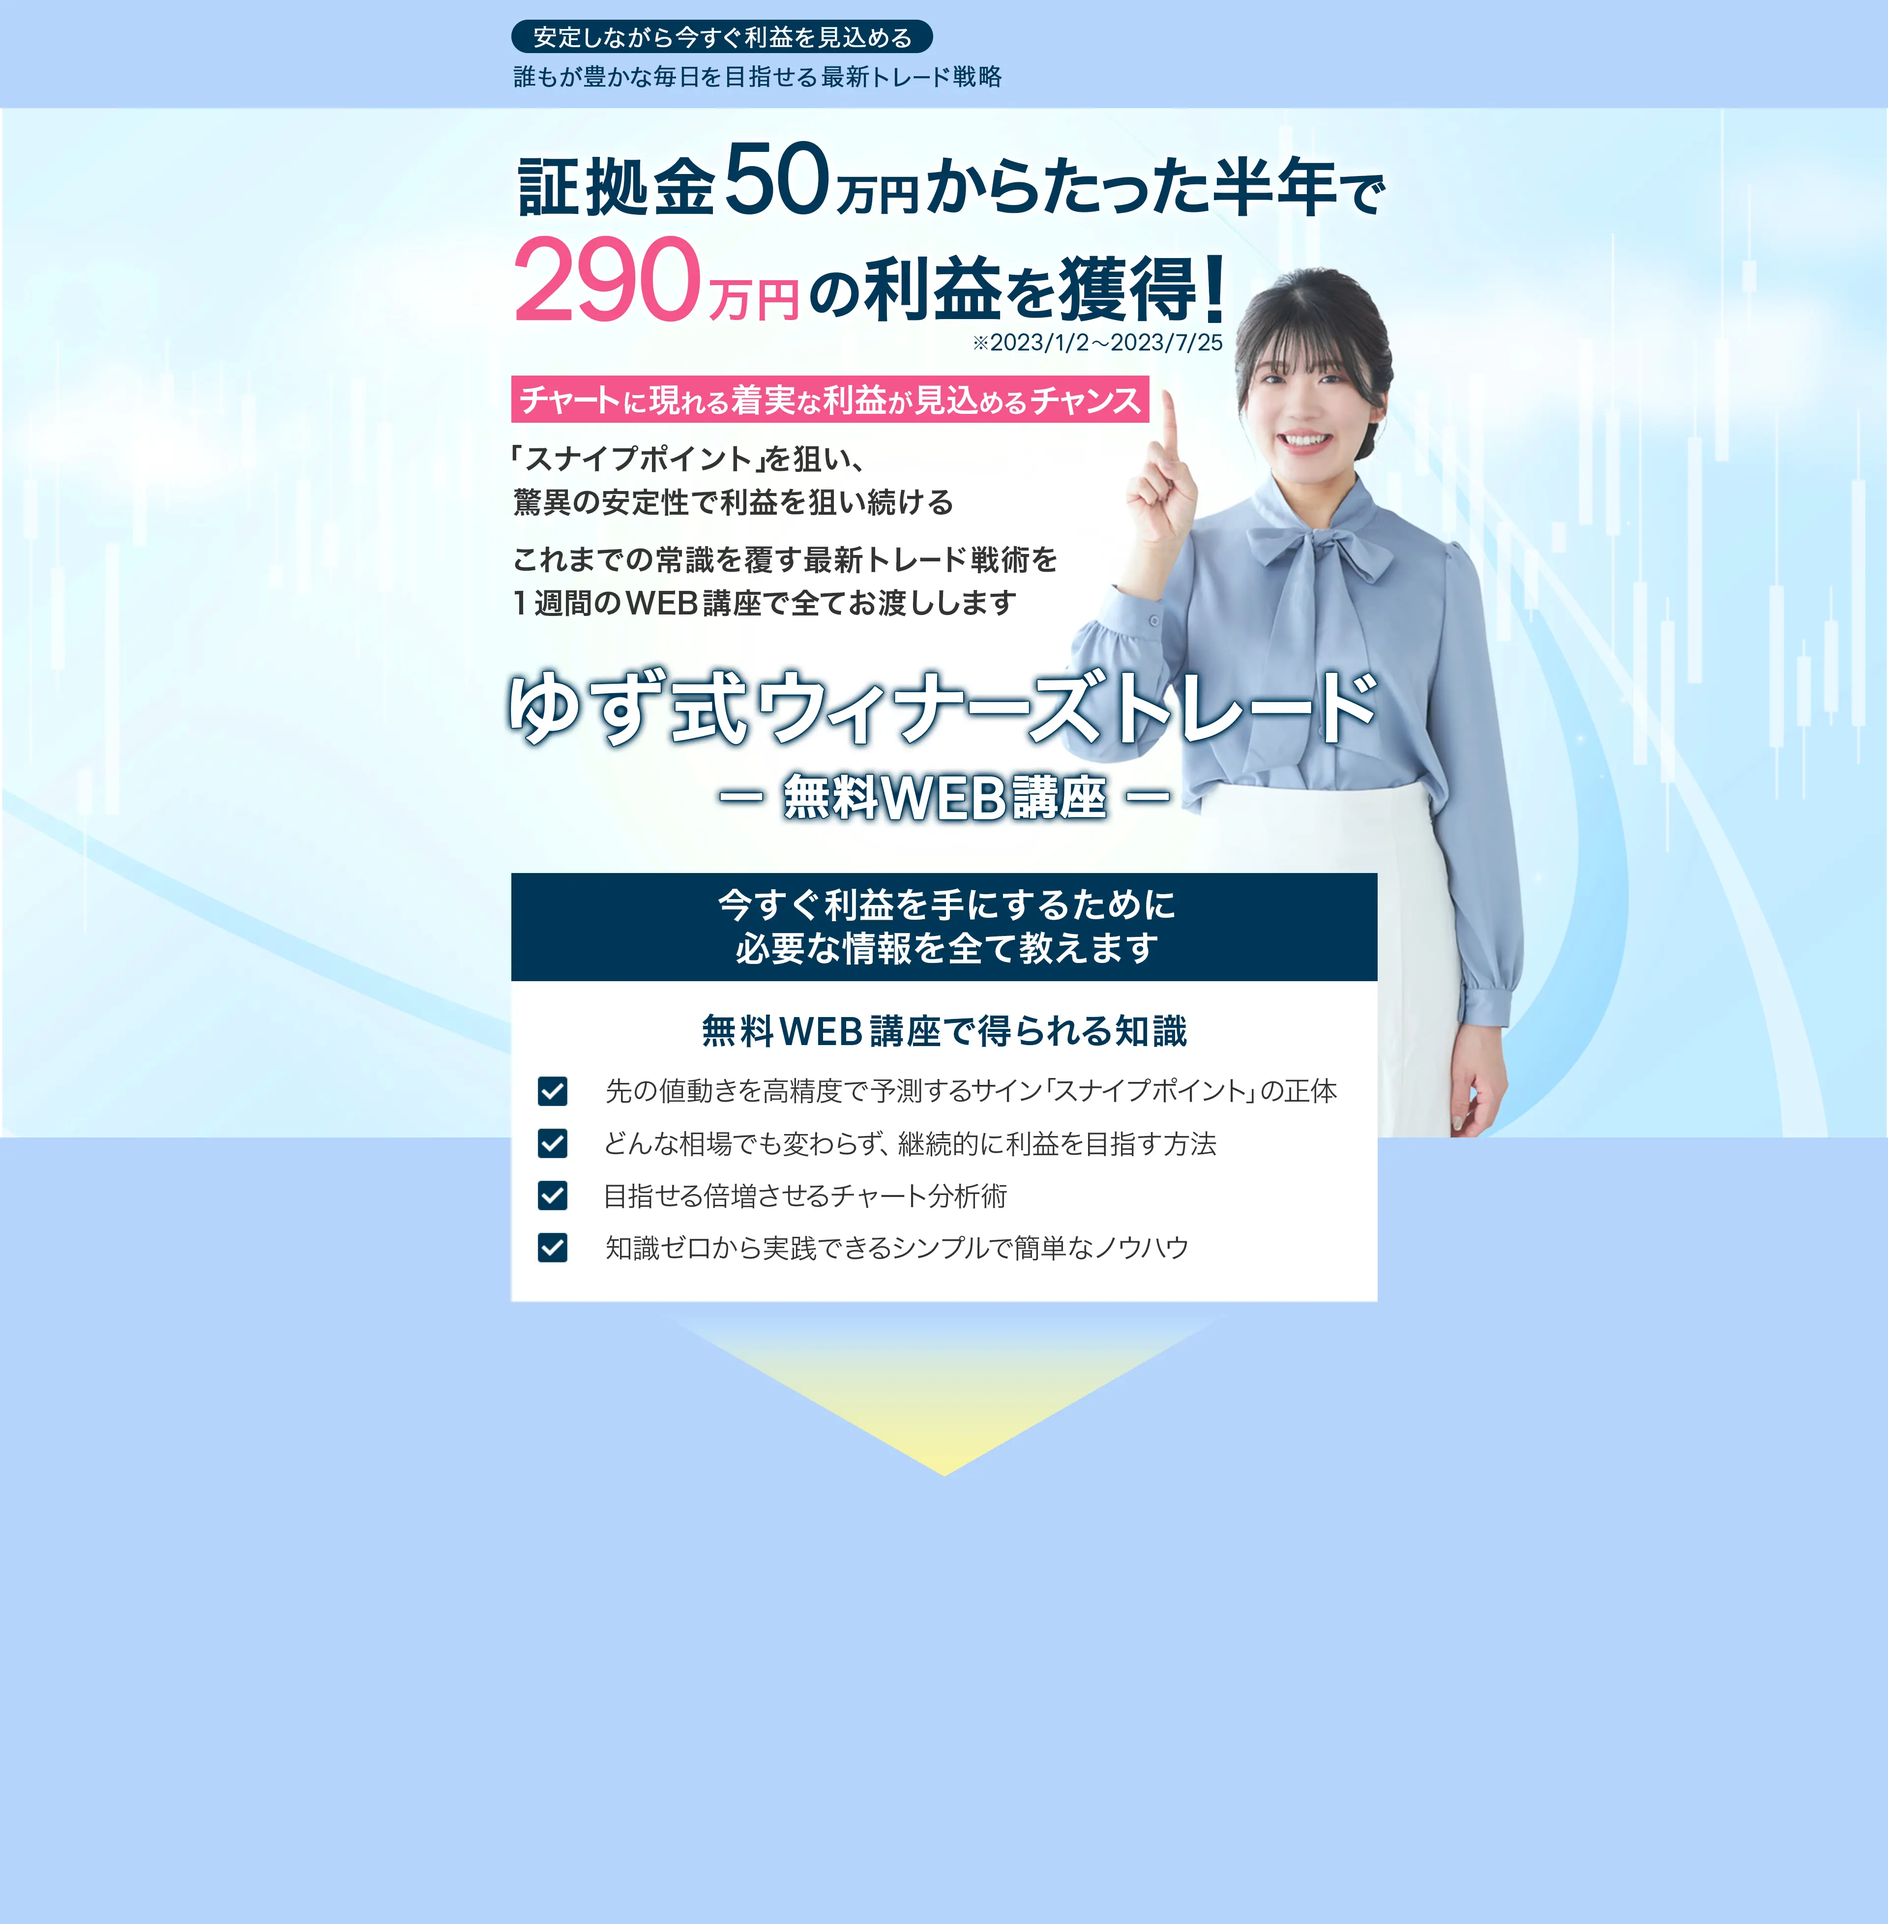
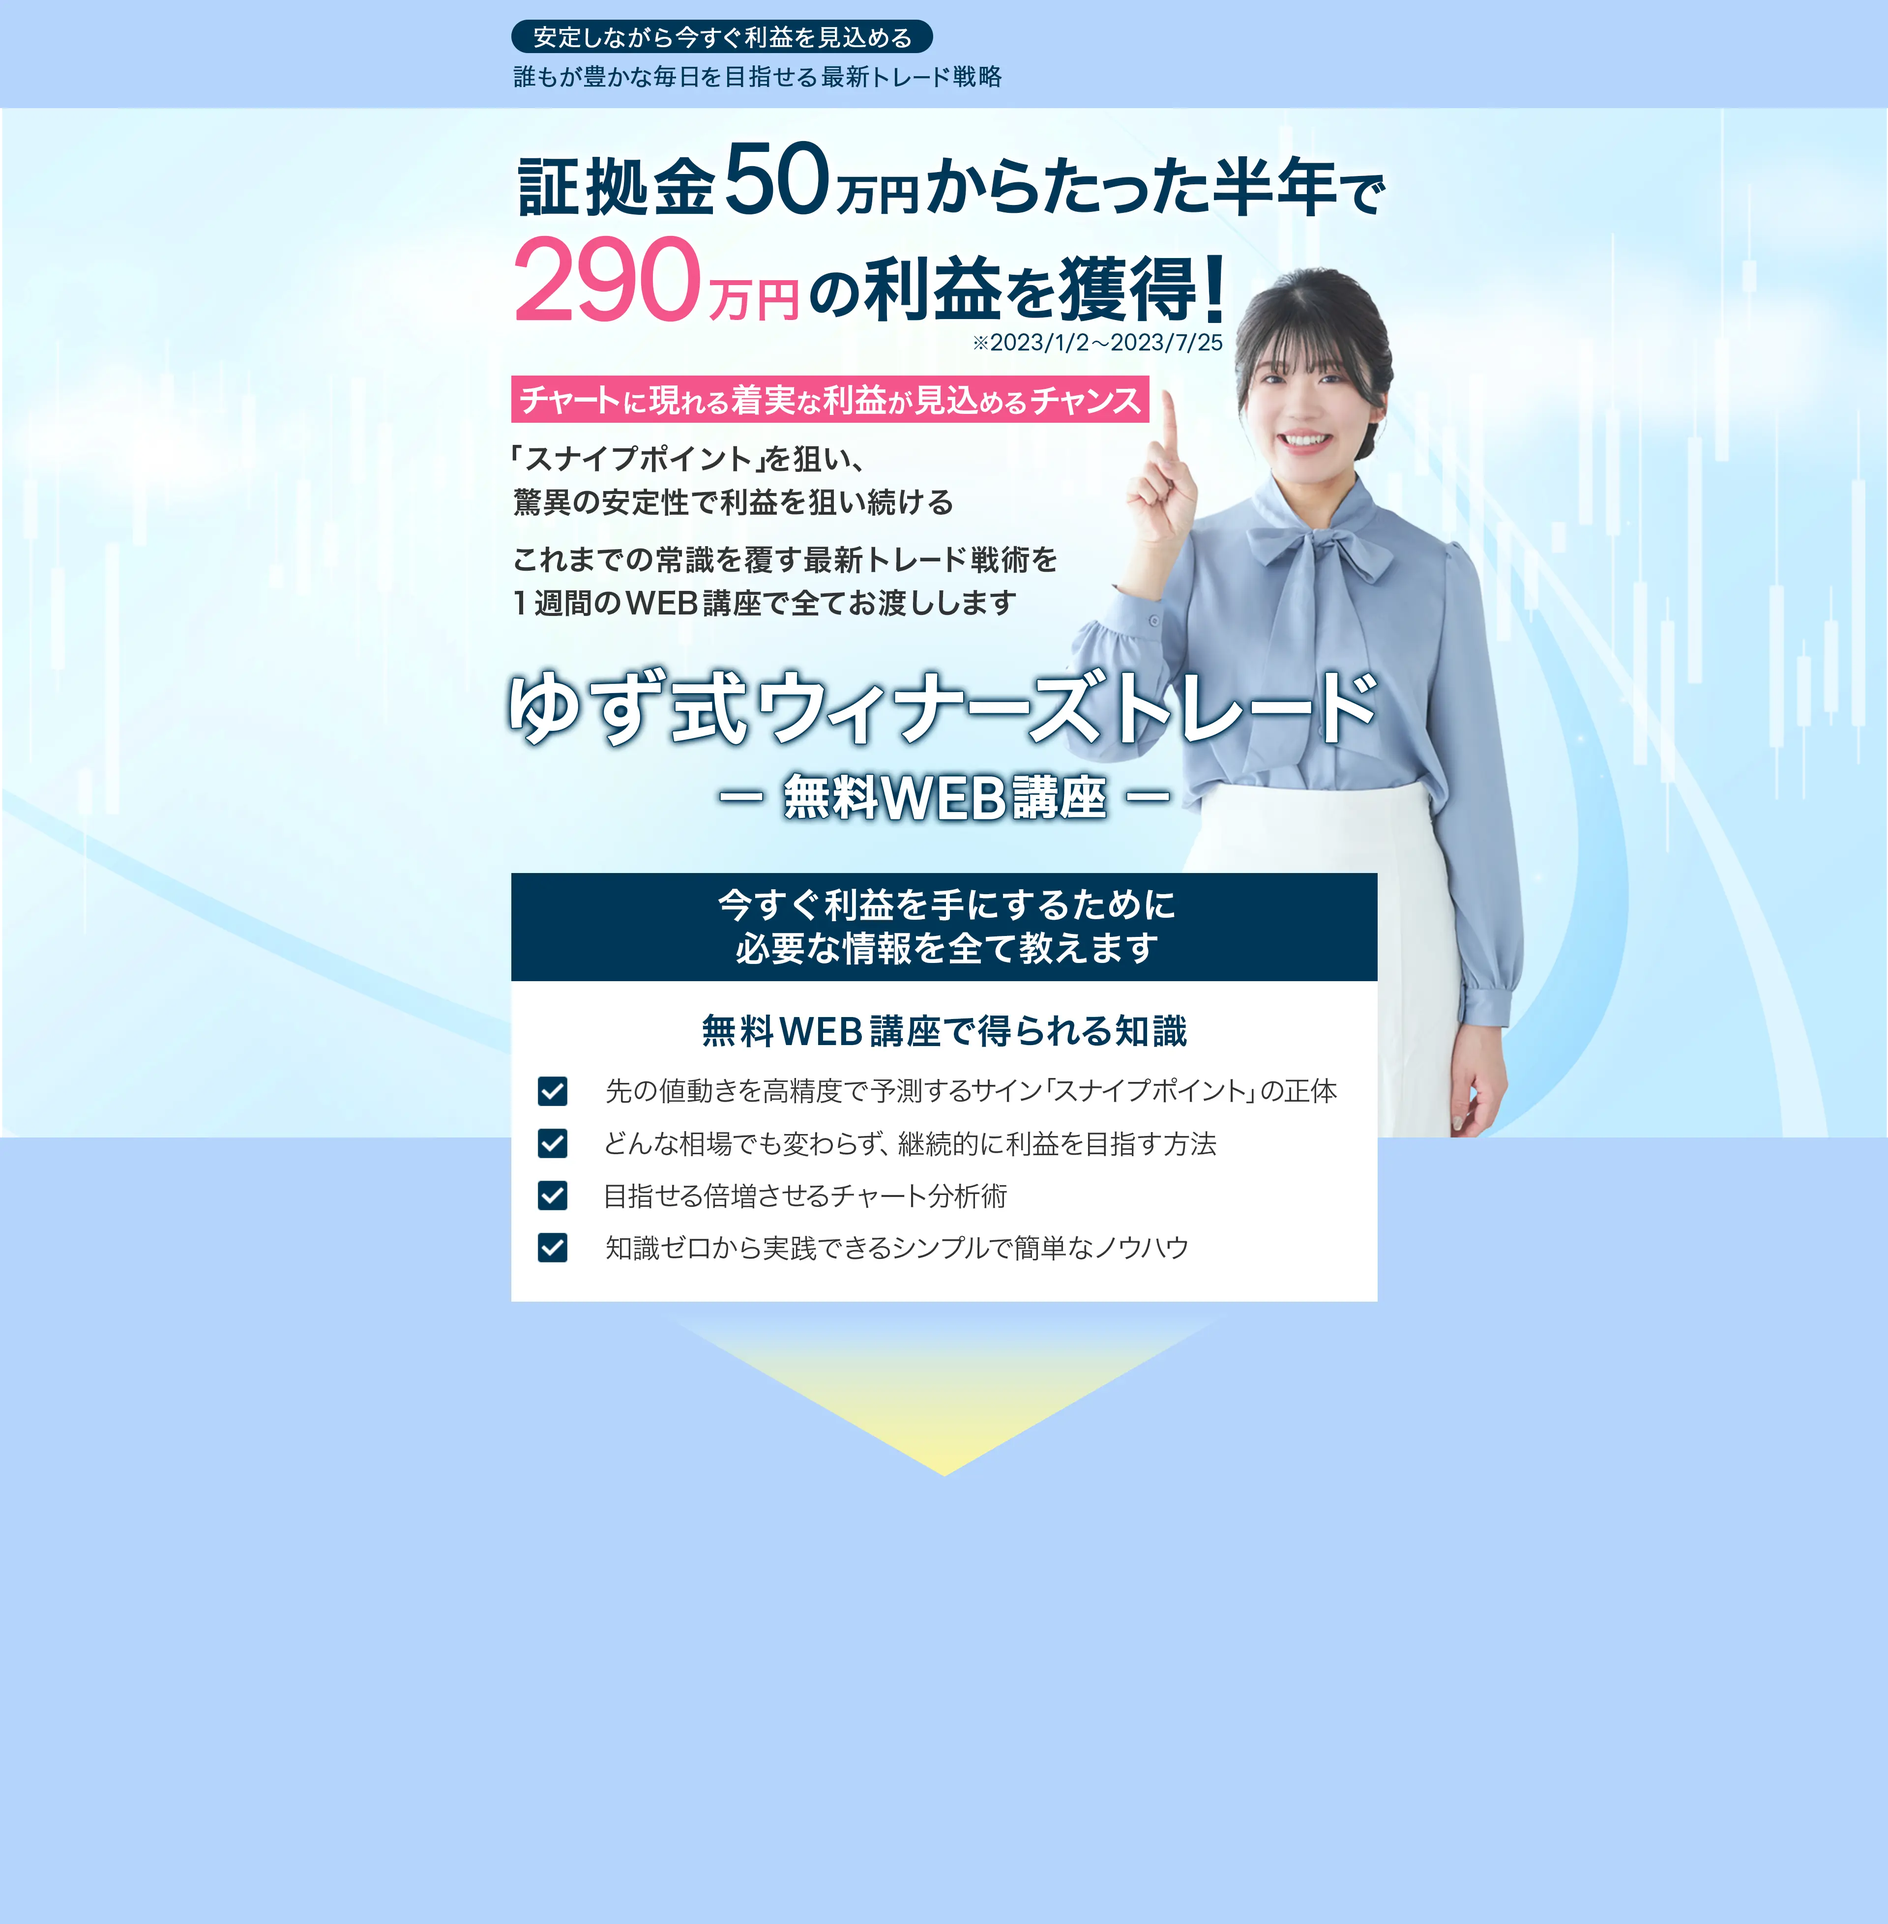
FV背景変更

Changed region(s): [[0.3438, 0.3117, 0.6562, 0.4676]]

diff --git a/index.html b/index.html
@@ -20,6 +20,8 @@
     <link rel="apple-touch-icon" href="images/favicon.ico" sizes="180x180">
     <link rel="shortcut icon" type="image/x-icon" href="images/favicon.ico">
     <link rel="icon" href="images/favicon.ico" sizes="any">
+    <!-- 背景画像のプリロード -->
+    <link rel="preload" href="images/pc-head-bck@2x.webp" as="image">
     <!-- CSS -->
     <link rel="stylesheet" href="https://cdn.jsdelivr.net/npm/destyle.css@1.0.15/destyle.css">
     <link rel="stylesheet" type="text/css" href="./css/style.css">
@@ -82,7 +84,7 @@
       <!-- 正確無比な値動き予測で安定利益を狙う -->
       <section class="section-03">
         <div class="w960">
-          <img class="section03-title_img" src="images/pc-sc03-title@2x.webp" alt="" width="883" height="166">
+          <img class="section03-title_img" src="images/pc-sc03-title@2x.webp" alt="" width="883" height="166" loading="lazy" decoding="async">
           <div class="box-a">
             <div class="pc-flex">
               <div class="text-area">ゆず式ウィナーズトレードとは、<br class="sp-none"> 誰もが「豊かで安心できる毎日を過ごせる」をコンセプトに、<br
@@ -119,7 +121,7 @@
       <section class="section-04">
         <div class="w960">
           <!-- <h2>負け続きだったトレーダーでも<br>始めてすぐ<span class="fs-40px">に</span>大きな成功<span class="fs-40px">を</span>目指せます</h2> -->
-          <img class="section04-title_img" src="images/pc-sc04-title@2x.webp" alt="" width="883" height="166">
+          <img class="section04-title_img" src="images/pc-sc04-title@2x.webp" alt="" width="883" height="166" loading="lazy" decoding="async">
           <div class="box-a">
             <div class="pc-flex">
               <div class="text-area">ゆず式ウィナーズトレードは、<br class="sp-none">トレード未経験の初心者でも即座に実践できるよう、<br
@@ -137,13 +139,13 @@
               </picture>
             </div>
             <!-- <h3>ゆず式ウィナーズトレードにチャレンジした<br>6名のトレーダーが即座に大成功！</h3> -->
-            <img class="section04-title2_img" src="images/pc-sc04-title2@2x.webp" alt="" width="721" height="99">
+            <img class="section04-title2_img" src="images/pc-sc04-title2@2x.webp" alt="" width="721" height="99" loading="lazy" decoding="async">
             <!-- <img class="sc04-pic" src="images/pc-sc04-pic2@2x.webp" alt="" width="883" height="478" loading="lazy"              decoding="async"> -->
             <!-- 6人の感想 -->
             <div class="sc04-voices">
               <!-- 亀山さん -->
               <div class="sc04-card">
-                <img class="sc04-card_img" src="images/kameyama-san@2x.webp" alt="" width="274" height="182">
+                <img class="sc04-card_img" src="images/kameyama-san@2x.webp" alt="" width="274" height="182" loading="lazy" decoding="async">
                 <div class="sc04-card-text">
                   <p class="sc04-card-name_p">亀山さん</p>
                   <p class="sc04-card-voice_p">プラスが積み重なるような、右肩上がりの結果になっています。<br>本当に安定して成果が目指せるので、将来への心配がなくなりました。</p>
@@ -151,7 +153,7 @@
                 </div>
               </div>
               <div class="sc04-card">
-                <img class="sc04-card_img" src="images/sasaki-san@2x.webp" alt="">
+                <img class="sc04-card_img" src="images/sasaki-san@2x.webp" alt="" loading="lazy" decoding="async">
                 <div class="sc04-card-text">
                   <p class="sc04-card-name_p">佐々木さん</p>
                   <p class="sc04-card-voice_p">リスクが少なく、安定して成果が見込めるので、すごく楽しくトレードが出来ています！<br>安心できる生活が出来て、心まで豊かになりました。</p>
@@ -159,7 +161,7 @@
                 </div>
               </div>
               <div class="sc04-card">
-                <img class="sc04-card_img" src="images/nakanishi-san@2x.webp" alt="">
+                <img class="sc04-card_img" src="images/nakanishi-san@2x.webp" alt="" loading="lazy" decoding="async">
                 <div class="sc04-card-text">
                   <p class="sc04-card-name_p">中西さん</p>
                   <p class="sc04-card-voice_p">私のような初心者にも、すごく優しい方法でした。<br>少ないお金からでも始められますし、もっと多くの方に知って欲しいと思いました。 </p>
@@ -167,7 +169,7 @@
                 </div>
               </div>
               <div class="sc04-card">
-                <img class="sc04-card_img" src="images/kojima-san@2x.webp" alt="">
+                <img class="sc04-card_img" src="images/kojima-san@2x.webp" alt="" loading="lazy" decoding="async">
                 <div class="sc04-card-text">
                   <p class="sc04-card-name_p">小嶋さん</p>
                   <p class="sc04-card-voice_p">ゆずさんのおかげで、今までの失敗を取り戻すことができました。<br>常に安定して成果が見込めるので、安心して利益を目指せるのが、一番の魅力だと思います。</p>
@@ -175,7 +177,7 @@
                 </div>
               </div>
               <div class="sc04-card">
-                <img class="sc04-card_img" src="images/takeda-san@2x.webp" alt="">
+                <img class="sc04-card_img" src="images/takeda-san@2x.webp" alt="" loading="lazy" decoding="async">
                 <div class="sc04-card-text">
                   <p class="sc04-card-name_p">武田さん</p>
                   <p class="sc04-card-voice_p">すごく分かりやすくて、楽しんで出来ています。<br>年金生活で毎日不安だったのが、ゆずさんのおかげで、楽しく過ごせるように変わりました！</p>
@@ -183,7 +185,7 @@
                 </div>
               </div>
               <div class="sc04-card">
-                <img class="sc04-card_img" src="images/ooshiro-san@2x.webp" alt="">
+                <img class="sc04-card_img" src="images/ooshiro-san@2x.webp" alt="" loading="lazy" decoding="async">
                 <div class="sc04-card-text">
                   <p class="sc04-card-name_p">大城さん</p>
                   <p class="sc04-card-voice_p">とってもシンプルで簡単なトレード法なのに、毎日のように成果が出せています。<br>自分の新しい夢に向かって、動き出せるようになりました！</p>
@@ -205,7 +207,7 @@
       <!-- 講師紹介 -->
       <section class="section-05">
         <div class="w960">
-          <img class="sc05-title_img pc-none" src="images/sp-sc05-title@2x.webp" alt="" width="800" height="207">
+          <img class="sc05-title_img pc-none" src="images/sp-sc05-title@2x.webp" alt="" width="800" height="207" loading="lazy" decoding="async">
           <div class="profile">
             <p class="name">松岡 ゆず</p>
             <p class="romaji">- Matsuoka Yuzu -</p>
@@ -213,14 +215,14 @@
               一部界隈で「稼がせるトレーダー」と呼ばれる。<br><br> 安定性と利益効率に特化した、<br class="sp-none"> ゆず式ウィナーズトレードを開発。<br><br>
               先の値動きを高い精度で予測するオリジナルメソッドを使って、<br class="sp-none"> 多大なる成果を上げる。<br><br> 今回、そのゆず式ウィナーズトレードをより多くの人に広めるため、<br
                 class="sp-none"> 完全無料のWEB講座を公開。</p>
-            <img class="profile_img pc-none" src="images/sp-sc05-yuzu-3@2x.webp" alt="" width="344" height="383">
+            <img class="profile_img pc-none" src="images/sp-sc05-yuzu-3@2x.webp" alt="" width="344" height="383" loading="lazy" decoding="async">
           </div>
         </div>
       </section>
       <!-- section-06 -->
       <!-- 損失額を最小限に抑えることで -->
       <section class="section-06">
-        <img class="section06-title_img" src="images/pc-sc06-title@2x.webp" alt="" width="694" height="168">
+        <img class="section06-title_img" src="images/pc-sc06-title@2x.webp" alt="" width="694" height="168" loading="lazy" decoding="async">
         <div class="w960">
           <div class="box-a">
             <div class="pc-flex">
@@ -249,7 +251,7 @@
       <!-- section-07 -->
       <!-- さらなる利益 -->
       <section class="section-07">
-        <img class="section07-title_img" src="images/pc-sc07-title@2x.webp" alt="" width="591" height="168">
+        <img class="section07-title_img" src="images/pc-sc07-title@2x.webp" alt="" width="591" height="168" loading="lazy" decoding="async">
         <div class="w960">
           <div class="box-a">
             <div class="pc-flex">
@@ -277,7 +279,7 @@
       <!-- section-08 -->
       <!-- ゆず式ウィナーズトレード -->
       <section class="section-08">
-        <img class="section08-title_img" src="images/pc-sc08-title@2x.webp" alt="" width="603" height="168">
+        <img class="section08-title_img" src="images/pc-sc08-title@2x.webp" alt="" width="603" height="168" loading="lazy" decoding="async">
         <div class="w960">
           <div class="box-a">
             <div class="pc-flex">
@@ -309,7 +311,7 @@
       <section class="section-09">
         <div class="w960">
           <div class="card">
-            <img class="parallelogram" src="images/pc-sc09-title-1@2x.webp" alt="" width="896" height="138">
+            <img class="parallelogram" src="images/pc-sc09-title-1@2x.webp" alt="" width="896" height="138" loading="lazy" decoding="async">
             <img class="pic" src="images/pc-sc09-pic1@2x.webp" alt="" width="207" height="197" loading="lazy"
               decoding="async">
             <ul>
@@ -327,7 +329,7 @@
             </ul>
           </div>
           <div class="card">
-            <img class="parallelogram" src="images/pc-sc09-title-2@2x.webp" alt="" width="896" height="138">
+            <img class="parallelogram" src="images/pc-sc09-title-2@2x.webp" alt="" width="896" height="138" loading="lazy" decoding="async">
             <img class="pic" src="images/pc-sc09-pic2@2x.webp" alt="" width="198" height="200" loading="lazy"
               decoding="async">
             <ul>
@@ -345,7 +347,7 @@
             </ul>
           </div>
           <div class="card">
-            <img class="parallelogram" src="images/pc-sc09-title-3@2x.webp" alt="" width="896" height="138">
+            <img class="parallelogram" src="images/pc-sc09-title-3@2x.webp" alt="" width="896" height="138" loading="lazy" decoding="async">
             <img class="pic" src="images/pc-sc09-pic3@2x.webp" alt="" width="203" height="188" loading="lazy"
               decoding="async">
             <ul>
